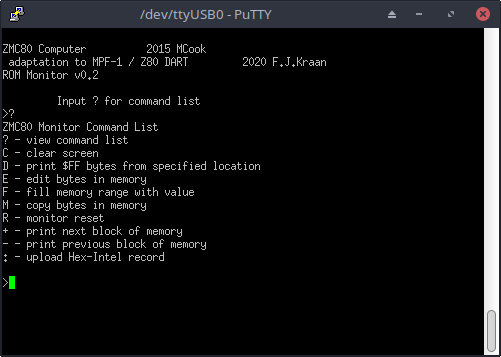
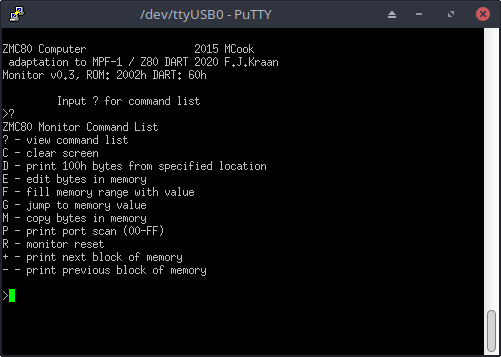
Update to 0.3 version.

diff --git a/README.md b/README.md
@@ -67,14 +67,6 @@ Usage:
 The second argument of the script compensates for the target address in the hex intel file with respect to 
 the address in the RAM. 
 
-## Native hex-intel upload code 
-
-Writing the other extensions were relative simple and straightforward, but the upload facility with the multiple
-interactions with the serial interface were more challenging. The current version processes the short manual 
-inserted test record without problem. More testing is needed.
-
-The license is MIT, as the existing monitor code uses this.
-
 ## Some screenshots
 
 Startup banner and help:
@@ -87,4 +79,4 @@ Changes made to the dump command:
 
 A planned change is to add a download of hex-intel via the monitor too, making a comparison on the host possible.
 
-fjkraan@electrickery.nl, 20210102
+fjkraan@electrickery.nl, 20220125
